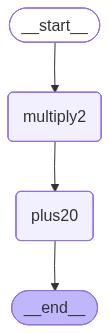
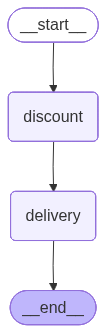
commit

diff --git a/09.RAG-랭체인-랭그래프/07.랭그래프/01.랭그래프-기본-구성_요소_및_구조/04-랭그래프-응용예제-2.py b/09.RAG-랭체인-랭그래프/07.랭그래프/01.랭그래프-기본-구성_요소_및_구조/04-랭그래프-응용예제-2.py
@@ -27,6 +27,28 @@ builder = StateGraph(State)
 builder.add_node("discount",discount)
 builder.add_node("delivery",delivery)
 
+builder.add_edge(START,"discount")
+builder.add_edge("discount","delivery")
+builder.add_edge("delivery",END)
+
+# 4. 컴파일
+graph = builder.compile()
+
+# 5. 실행
+result = graph.invoke({
+    "price": 100000
+})
+
+print(result)
+print(result["price"])
+
+import sys
+from pathlib import Path
+sys.path.append(str(Path(__file__).resolve().parent.parent))
+
+
+from util import show_graph
+show_graph(graph)
 
 
 # START
